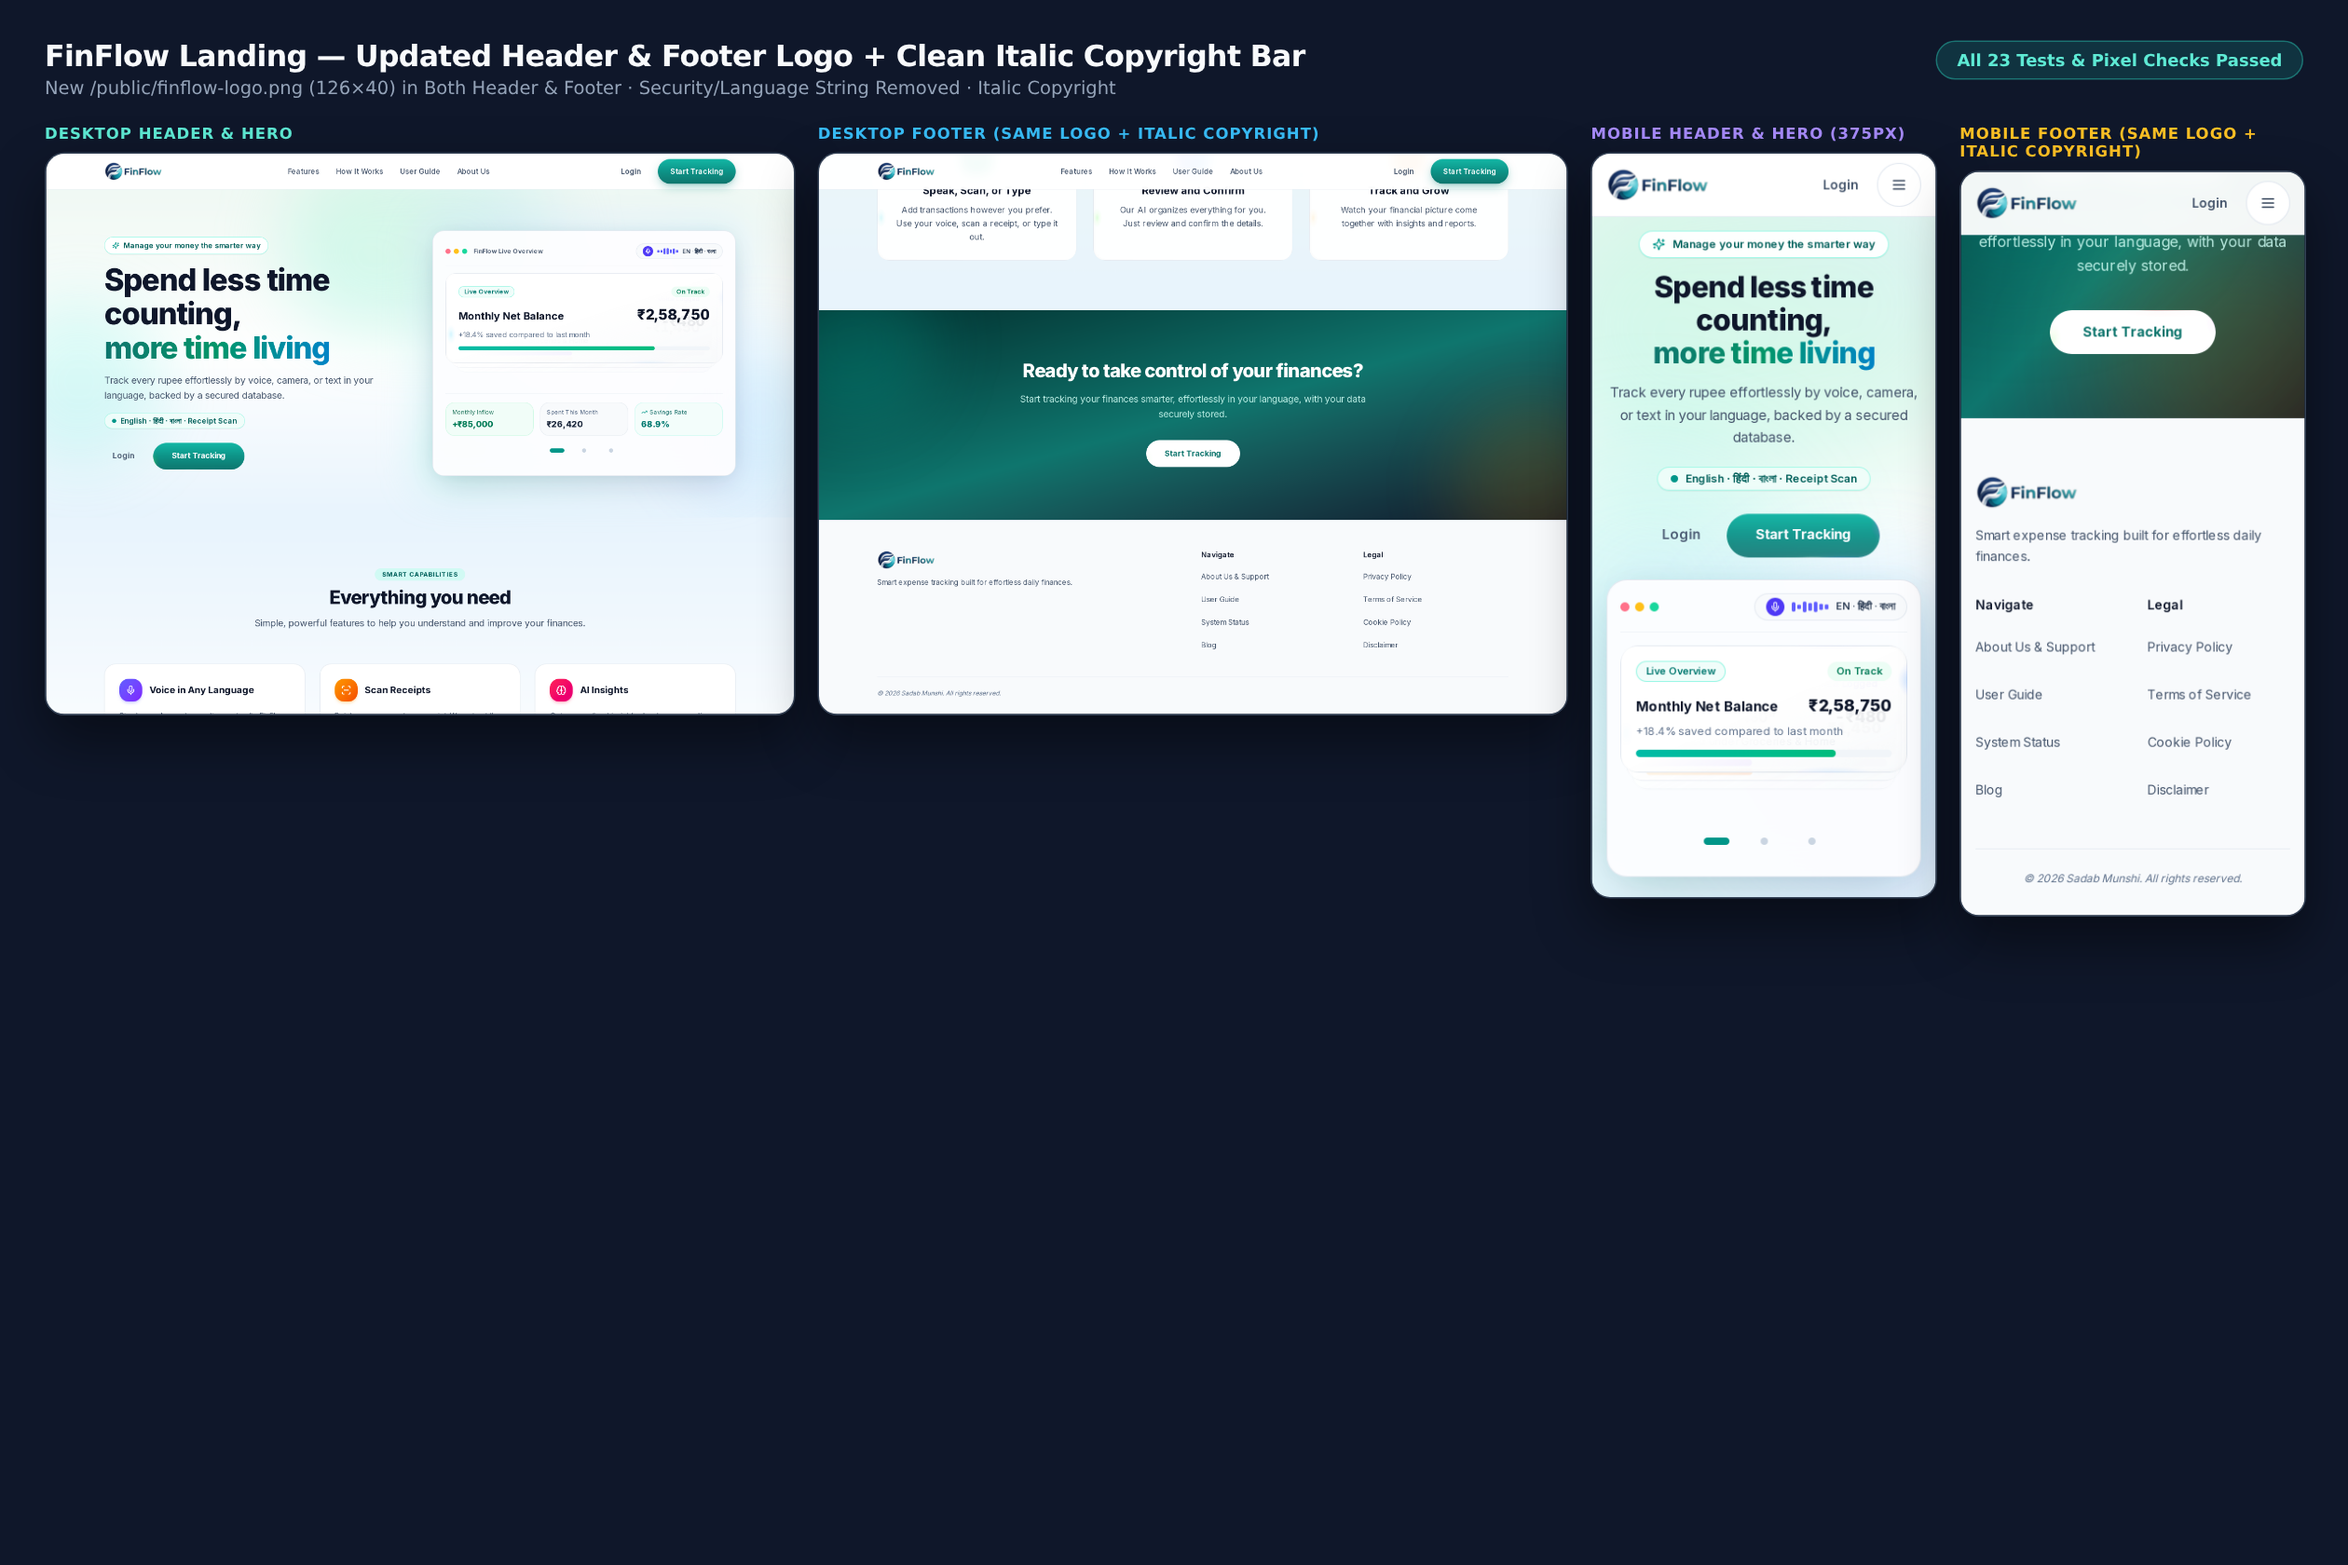
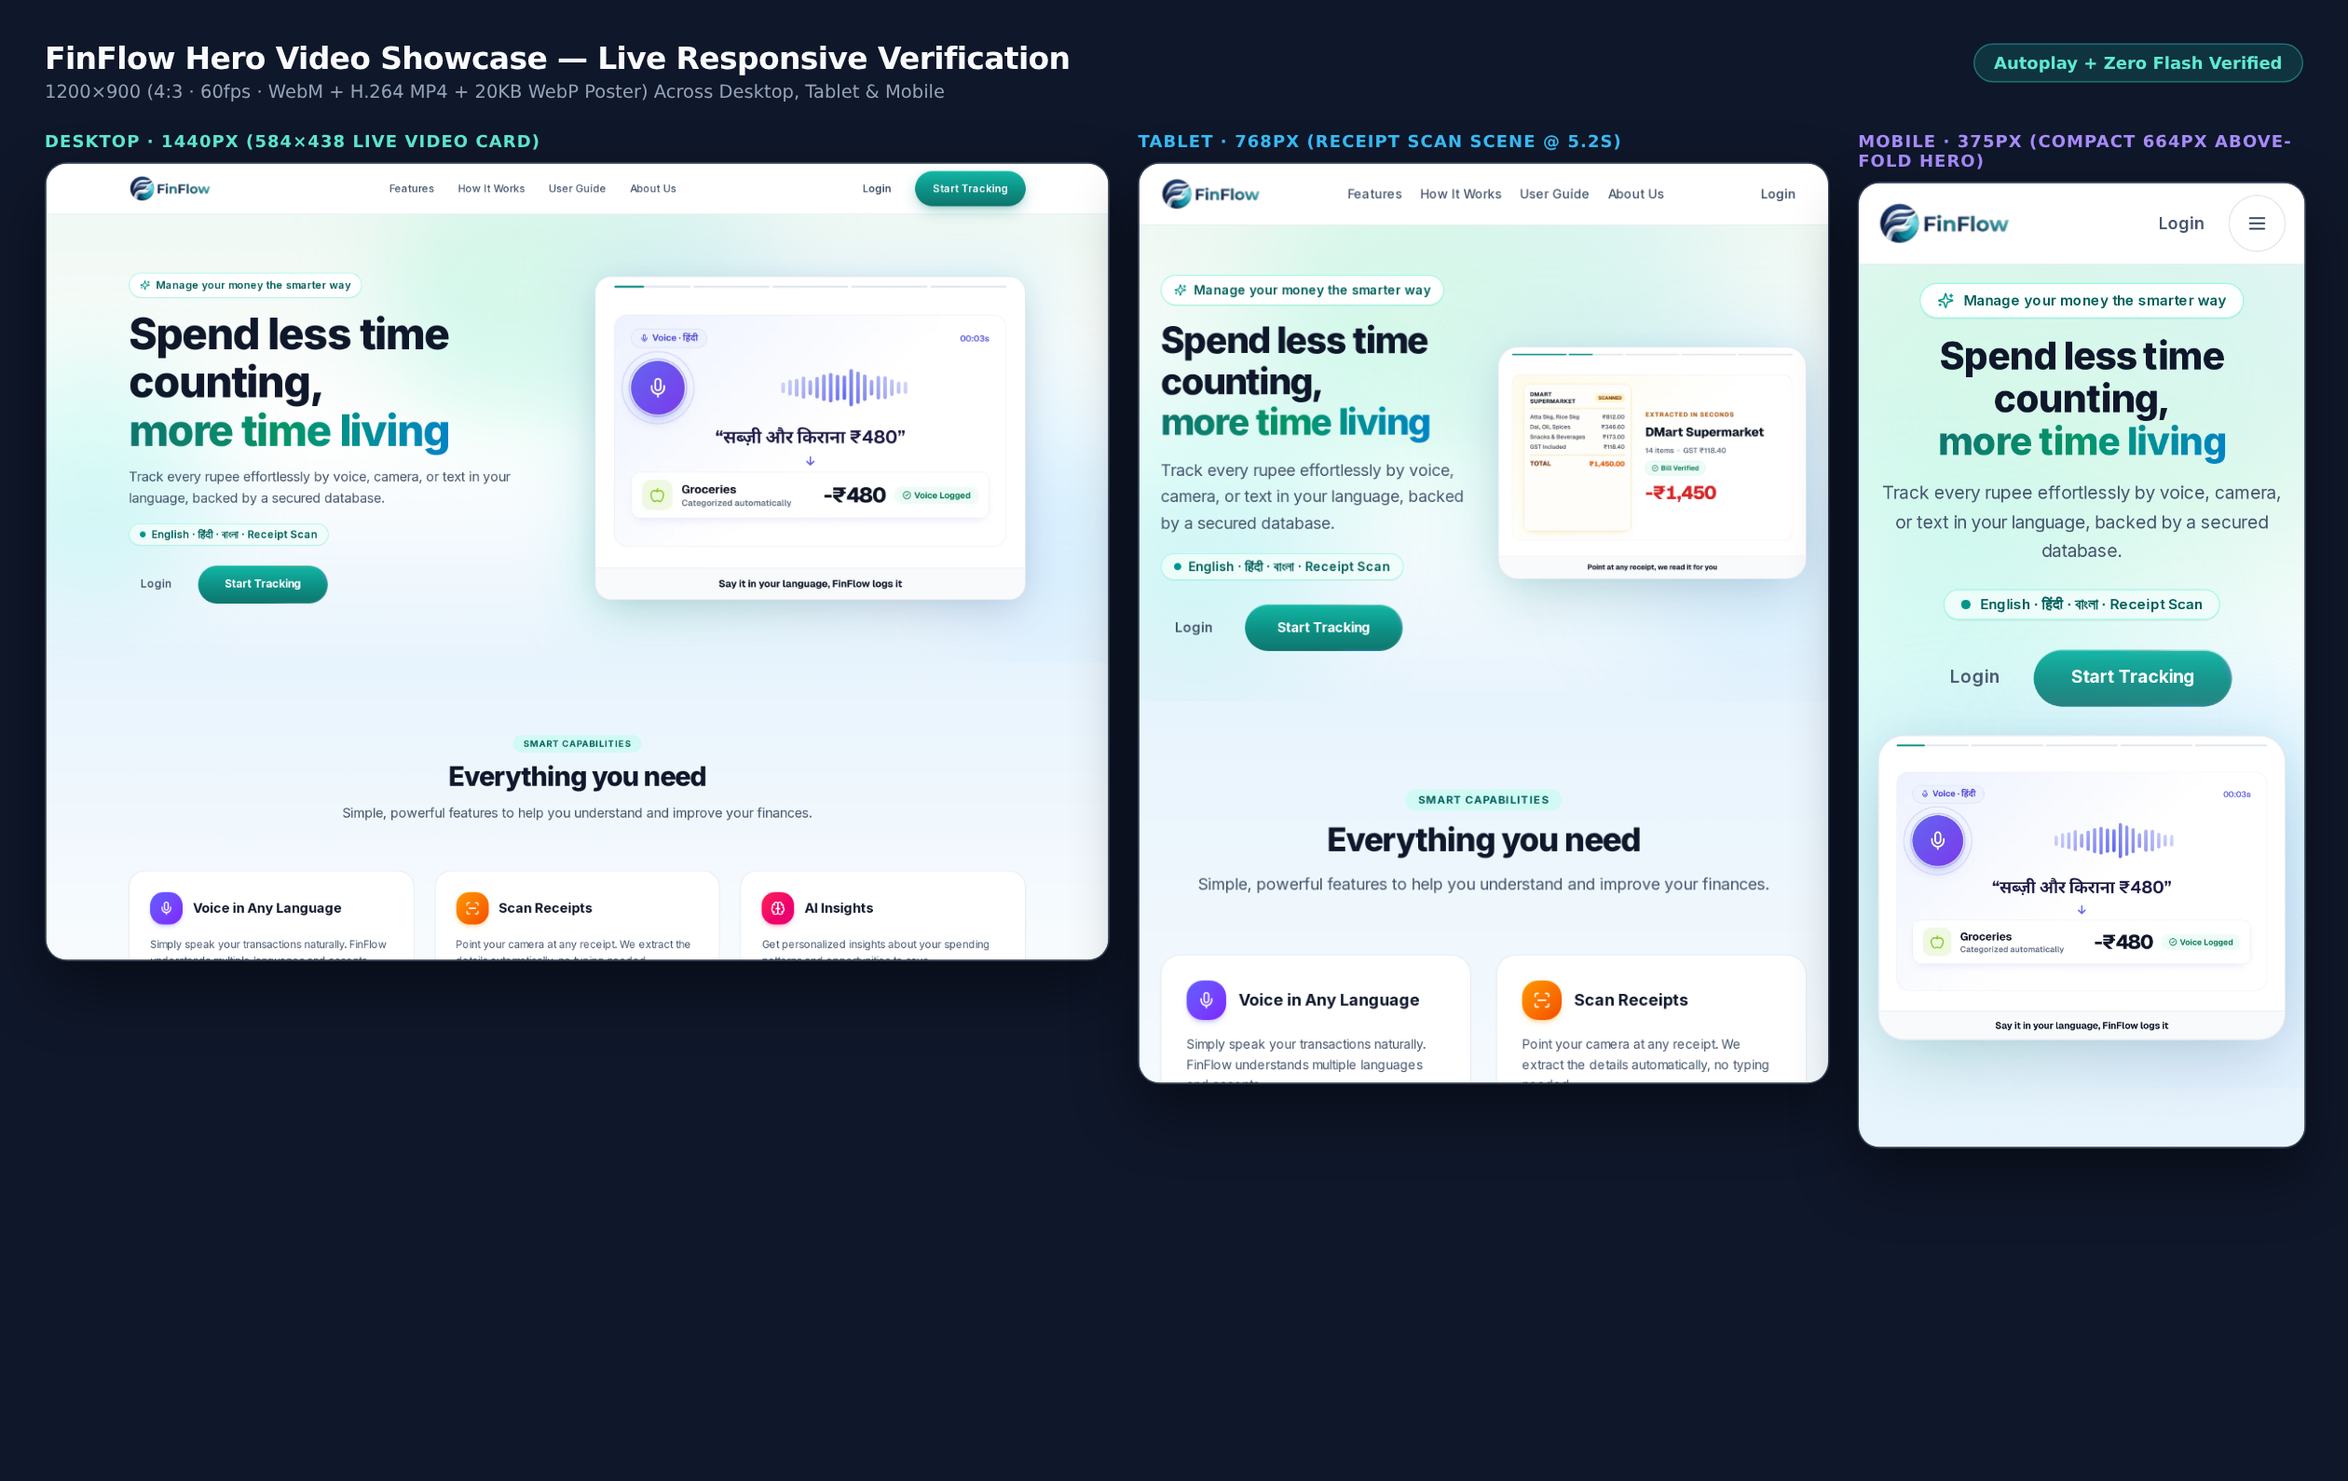
feat(landing): wire 60fps 4:3 hero showcase video across all viewports

diff --git a/components/landing/MotionLoops.tsx b/components/landing/MotionLoops.tsx
@@ -1,233 +1,56 @@
 'use client'
 
-import React, { useEffect, useState } from 'react'
+import React, { useEffect, useRef, useState } from 'react'
 import {
   Mic,
   Sparkles,
   CheckCircle2,
   ArrowUpRight,
   Lock,
-  TrendingUp,
 } from 'lucide-react'
 import { BorderBeam } from 'border-beam'
 
 /**
- * 1. HERO VISUAL: Prominent Interactive FinFlow Dashboard Preview Window + 3D CardSwap Loop
- * Compact & streamlined on mobile; full-column scaled visual prominence on tablet & desktop.
+ * 1. HERO VISUAL: Seamless Inline 60fps FinFlow Product Showcase Video (1200x900 4:3)
+ * Replaces the stacked card box cleanly with instant WebP poster paint + WebM/MP4 looping video.
  */
 export function HeroCardSwapLoop() {
-  const [activeIndex, setActiveIndex] = useState(0)
-
-  const cards = [
-    {
-      id: 'balance',
-      badge: 'Live Overview',
-      badgeColor: 'bg-teal-50 text-teal-700 border-teal-200',
-      accentBar: 'from-teal-500 to-emerald-500',
-      title: 'Monthly Net Balance',
-      amount: '₹2,58,750',
-      sub: '+18.4% saved compared to last month',
-      pill: 'On Track',
-      pillColor: 'bg-emerald-50 text-emerald-700',
-    },
-    {
-      id: 'voice',
-      badge: 'Voice · हिंदी & English',
-      badgeColor: 'bg-indigo-50 text-indigo-700 border-indigo-200',
-      accentBar: 'from-indigo-500 to-violet-500',
-      title: '“सब्ज़ी और किराना ₹480”',
-      amount: '-₹480',
-      sub: 'Categorized under Groceries & Home',
-      pill: 'Voice Logged',
-      pillColor: 'bg-indigo-50 text-indigo-700',
-    },
-    {
-      id: 'receipt',
-      badge: 'Camera Receipt Scan',
-      badgeColor: 'bg-amber-50 text-amber-800 border-amber-200',
-      accentBar: 'from-amber-500 to-orange-500',
-      title: 'DMart Supermarket',
-      amount: '-₹1,450',
-      sub: '14 items · GST ₹118.40 extracted automatically',
-      pill: 'Bill Verified',
-      pillColor: 'bg-amber-50 text-amber-800',
-    },
-  ]
+  const videoRef = useRef<HTMLVideoElement | null>(null)
 
   useEffect(() => {
-    const timer = setInterval(() => {
-      setActiveIndex((prev) => (prev + 1) % cards.length)
-    }, 3200)
-    return () => clearInterval(timer)
-  }, [cards.length])
+    const el = videoRef.current
+    if (!el) return
+    el.defaultMuted = true
+    el.muted = true
+    el.play().catch(() => {})
+  }, [])
 
   return (
     <div className="relative w-full max-w-md md:max-w-none mx-auto">
-      <style>{`
-        @keyframes eqSwell {
-          0%, 100% { transform: scaleY(0.35); }
-          50% { transform: scaleY(1); }
-        }
-      `}</style>
-
       {/* Soft multi-tone ambient halo */}
       <div
         aria-hidden="true"
         className="pointer-events-none absolute -inset-3 lg:-inset-5 rounded-[36px] bg-gradient-to-tr from-teal-200/45 via-indigo-200/30 to-sky-200/40 blur-2xl"
       />
 
-      {/* Elevated Dashboard Preview Window */}
-      <div className="relative rounded-3xl bg-white/90 backdrop-blur-xl border border-slate-200/90 p-3.5 sm:p-5 lg:p-6 shadow-[0_24px_60px_-15px_rgba(15,23,42,0.14),0_0_32px_-8px_rgba(13,148,136,0.12)]">
-        {/* Window Top Bar + Floating Multi-Language Voice Pill */}
-        <div className="flex items-center justify-between gap-2 pb-3 mb-3.5 border-b border-slate-100">
-          <div className="flex items-center gap-1.5 shrink-0">
-            <span className="w-2.5 h-2.5 rounded-full bg-rose-400/90" />
-            <span className="w-2.5 h-2.5 rounded-full bg-amber-400/90" />
-            <span className="w-2.5 h-2.5 rounded-full bg-emerald-400/90" />
-            <span className="ml-1.5 text-xs font-semibold text-slate-600 hidden lg:inline whitespace-nowrap">
-              FinFlow Live Overview
-            </span>
-          </div>
-
-          <div className="inline-flex items-center gap-2 px-3 py-1 rounded-full bg-slate-50 border border-slate-200/80">
-            <span className="flex items-center justify-center w-5 h-5 rounded-full bg-indigo-600 text-white shrink-0">
-              <Mic className="w-3 h-3" />
-            </span>
-            <div className="flex items-center gap-0.5 h-3" aria-hidden="true">
-              {[0, 1, 2, 3, 4, 5, 6].map((i) => (
-                <span
-                  key={i}
-                  className="w-1 h-full rounded-full bg-indigo-500"
-                  style={{
-                    animation: `eqSwell ${0.6 + (i % 3) * 0.2}s ease-in-out infinite`,
-                    animationDelay: `${i * 80}ms`,
-                  }}
-                />
-              ))}
-            </div>
-            <span className="text-[11px] font-semibold text-slate-700 whitespace-nowrap">
-              EN · हिंदी · বাংলা
-            </span>
-          </div>
-        </div>
-
-        {/* 3D Card Swap Stack — compact height on mobile, expanded scale on desktop */}
-        <div className="relative h-[186px] sm:h-[206px] lg:h-[224px] w-full">
-          {cards.map((card, index) => {
-            const offset = (index - activeIndex + cards.length) % cards.length
-            const translateY = offset === 0 ? 0 : offset === 1 ? 12 : 24
-            const scale = offset === 0 ? 1 : offset === 1 ? 0.96 : 0.92
-            const zIndex = offset === 0 ? 30 : offset === 1 ? 20 : 10
-            const opacity = offset === 0 ? 1 : offset === 1 ? 0.78 : 0.45
-
-            return (
-              <div
-                key={card.id}
-                onClick={() => setActiveIndex(index)}
-                style={{
-                  transform: `translate3d(0, ${translateY}px, 0) scale(${scale})`,
-                  zIndex,
-                  opacity,
-                  willChange: 'transform, opacity',
-                  transition:
-                    'transform 500ms cubic-bezier(0.16, 1, 0.3, 1), opacity 500ms cubic-bezier(0.16, 1, 0.3, 1)',
-                }}
-                className="absolute inset-x-0 top-0 cursor-pointer"
-              >
-                <BorderBeam
-                  size="sm"
-                  colorVariant={index === 0 ? 'ocean' : index === 1 ? 'colorful' : 'sunset'}
-                  strength={offset === 0 ? 0.75 : 0}
-                  active={offset === 0}
-                  theme="light"
-                  borderRadius={20}
-                >
-                  <div className="rounded-2xl bg-gradient-to-br from-white via-white to-slate-50/80 border border-slate-200/90 p-4 sm:p-5 lg:p-6 shadow-[0_14px_34px_-12px_rgba(15,23,42,0.12)]">
-                    <div className="flex items-center justify-between gap-2 mb-3">
-                      <span
-                        className={`px-2.5 py-0.5 rounded-full text-[11px] sm:text-xs font-semibold border whitespace-nowrap ${card.badgeColor}`}
-                      >
-                        {card.badge}
-                      </span>
-                      <span
-                        className={`px-2.5 py-0.5 rounded-full text-[11px] sm:text-xs font-semibold whitespace-nowrap ${card.pillColor}`}
-                      >
-                        {card.pill}
-                      </span>
-                    </div>
-
-                    <div className="flex items-baseline justify-between gap-2 mb-1.5">
-                      <h3 className="text-[15px] lg:text-xl font-bold text-slate-900 truncate">
-                        {card.title}
-                      </h3>
-                      <span
-                        className="text-lg lg:text-[28px] font-extrabold text-slate-900 font-mono shrink-0 whitespace-nowrap"
-                        style={{ fontVariantNumeric: 'tabular-nums' }}
-                      >
-                        {card.amount}
-                      </span>
-                    </div>
-
-                    <p className="text-xs lg:text-sm text-slate-500 mb-3 truncate">
-                      {card.sub}
-                    </p>
-
-                    <div className="w-full h-2 rounded-full bg-slate-100 overflow-hidden">
-                      <div
-                        className={`h-full rounded-full bg-gradient-to-r ${card.accentBar} transition-all duration-700`}
-                        style={{ width: offset === 0 ? '78%' : '45%' }}
-                      />
-                    </div>
-                  </div>
-                </BorderBeam>
-              </div>
-            )
-          })}
-        </div>
-
-        {/* Tablet (2-col) & Desktop (3-col) Live Cashflow Metrics Strip */}
-        <div className="hidden md:grid md:grid-cols-2 lg:grid-cols-3 gap-2.5 lg:gap-3 pt-4 mt-2 border-t border-slate-100">
-          <div className="rounded-2xl bg-emerald-50/70 border border-emerald-100 px-3 py-2.5">
-            <div className="text-[11px] font-medium text-emerald-800/80 whitespace-nowrap">Monthly Inflow</div>
-            <div className="text-sm lg:text-base font-extrabold font-mono text-emerald-700 mt-0.5 whitespace-nowrap">
-              +₹85,000
-            </div>
-          </div>
-          <div className="hidden lg:block rounded-2xl bg-slate-50 border border-slate-200/70 px-3 py-2.5">
-            <div className="text-[11px] font-medium text-slate-500 whitespace-nowrap">Spent This Month</div>
-            <div className="text-sm lg:text-base font-extrabold font-mono text-slate-800 mt-0.5 whitespace-nowrap">
-              ₹26,420
-            </div>
-          </div>
-          <div className="rounded-2xl bg-teal-50/70 border border-teal-100 px-3 py-2.5">
-            <div className="flex items-center gap-1 text-[11px] font-medium text-teal-800/80 whitespace-nowrap">
-              <TrendingUp className="w-3 h-3 text-teal-600 shrink-0" />
-              <span>Savings Rate</span>
-            </div>
-            <div className="text-sm lg:text-base font-extrabold font-mono text-teal-700 mt-0.5 whitespace-nowrap">
-              68.9%
-            </div>
-          </div>
-        </div>
-
-        {/* Accessible 48x48 Touch-Target Card Switcher Dots */}
-        <div className="flex items-center justify-center gap-1 mt-1">
-          {cards.map((c, i) => (
-            <button
-              key={c.id}
-              type="button"
-              aria-label={`Show ${c.badge}`}
-              onClick={() => setActiveIndex(i)}
-              className="min-w-[48px] min-h-[48px] inline-flex items-center justify-center bg-transparent border-0 cursor-pointer p-0"
-            >
-              <span
-                className={`block h-2 rounded-full transition-all ${
-                  i === activeIndex ? 'w-7 bg-teal-600' : 'w-2 bg-slate-300 hover:bg-slate-400'
-                }`}
-              />
-            </button>
-          ))}
-        </div>
+      {/* Full-bleed 4:3 Product Showcase Video Card */}
+      <div className="relative rounded-3xl bg-white border border-slate-200/90 overflow-hidden shadow-[0_24px_60px_-15px_rgba(15,23,42,0.14),0_0_32px_-8px_rgba(13,148,136,0.12)]">
+        <video
+          ref={videoRef}
+          autoPlay
+          loop
+          muted
+          playsInline
+          preload="auto"
+          poster="/assets/hero-preview-poster.webp"
+          width={1200}
+          height={900}
+          aria-label="FinFlow live voice, receipt scan, budget, insights, and monthly summary preview"
+          className="block w-full h-auto aspect-[4/3] object-cover bg-white pointer-events-none select-none"
+        >
+          <source src="/assets/hero-preview.webm" type="video/webm" />
+          <source src="/assets/hero-preview.mp4" type="video/mp4" />
+        </video>
       </div>
     </div>
   )
@@ -254,6 +77,13 @@ export function VoicePillVisual() {
 
   return (
     <div className="rounded-2xl bg-gradient-to-br from-indigo-50/90 via-violet-50/60 to-white border border-indigo-100 p-4">
+      <style>{`
+        @keyframes eqSwell {
+          0%, 100% { transform: scaleY(0.35); }
+          50% { transform: scaleY(1); }
+        }
+      `}</style>
+
       <div className="flex items-center justify-between gap-1.5 mb-3">
         <div className="flex items-center gap-1">
           {samples.map((item, i) => (
@@ -430,7 +260,7 @@ export function MonthlyReportVisual() {
         ))}
       </div>
 
-      <div className="flex items-center justify-between text-[11px] text-sky-900 font-medium pt-2 border-t border-sky-100">
+      <div className="flex items-center justify-between text-[11px] text-sky-950 font-medium pt-2 border-t border-sky-100">
         <span>Net Saved: ₹42,500</span>
         <span className="text-sky-600 font-mono">1-Tap Download</span>
       </div>
